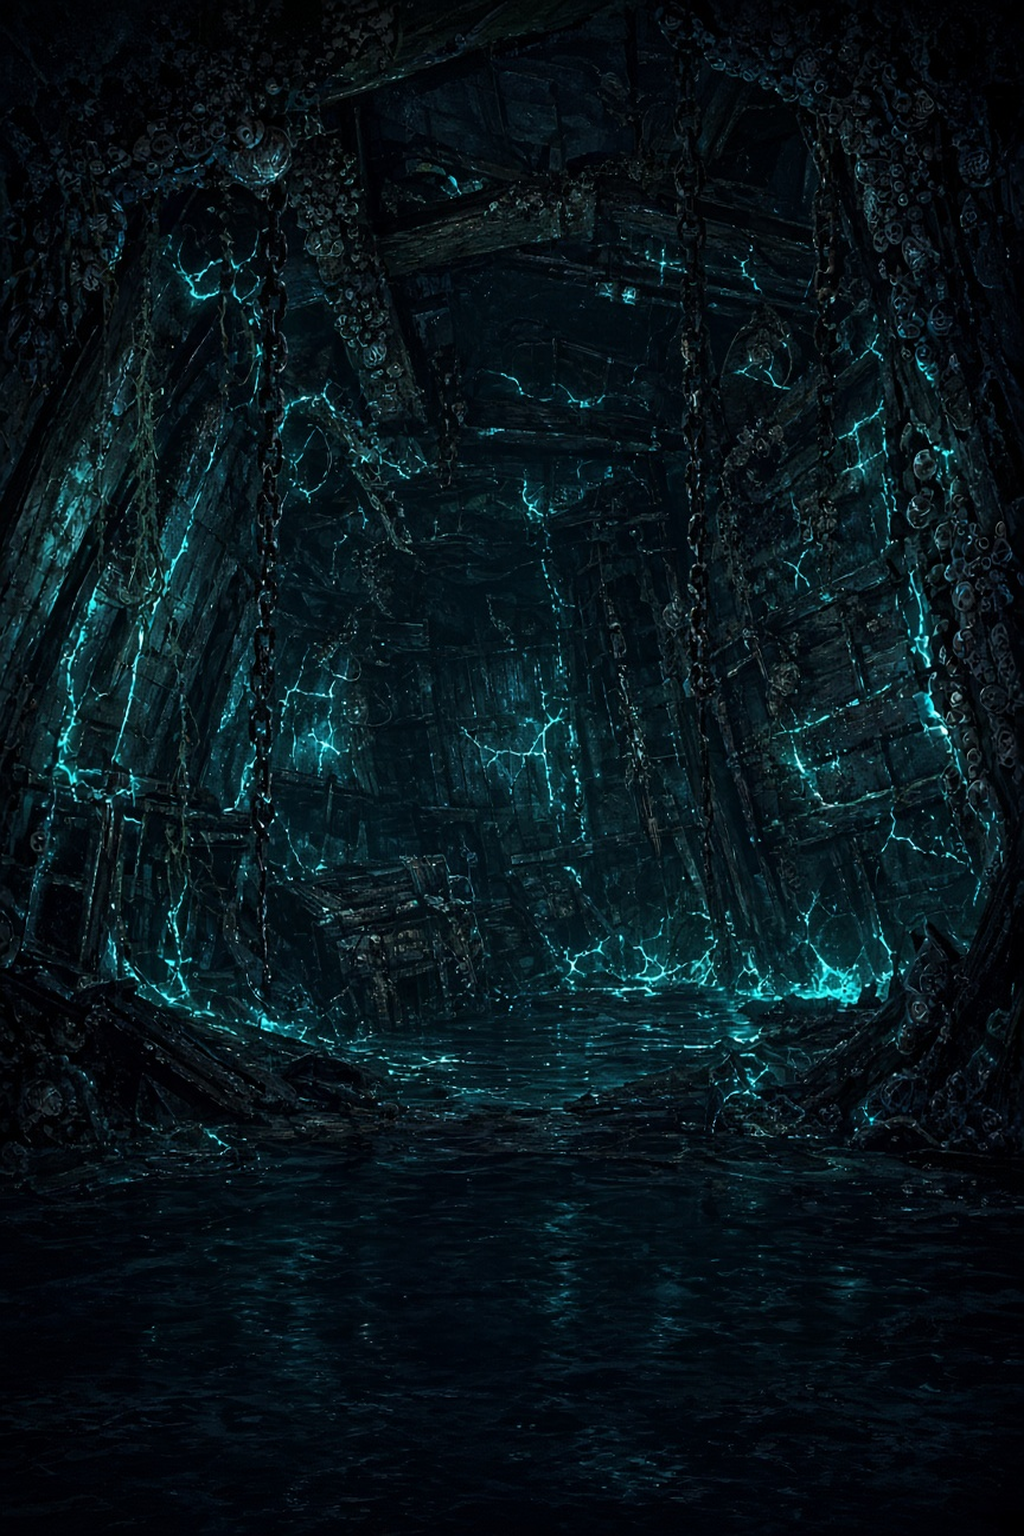
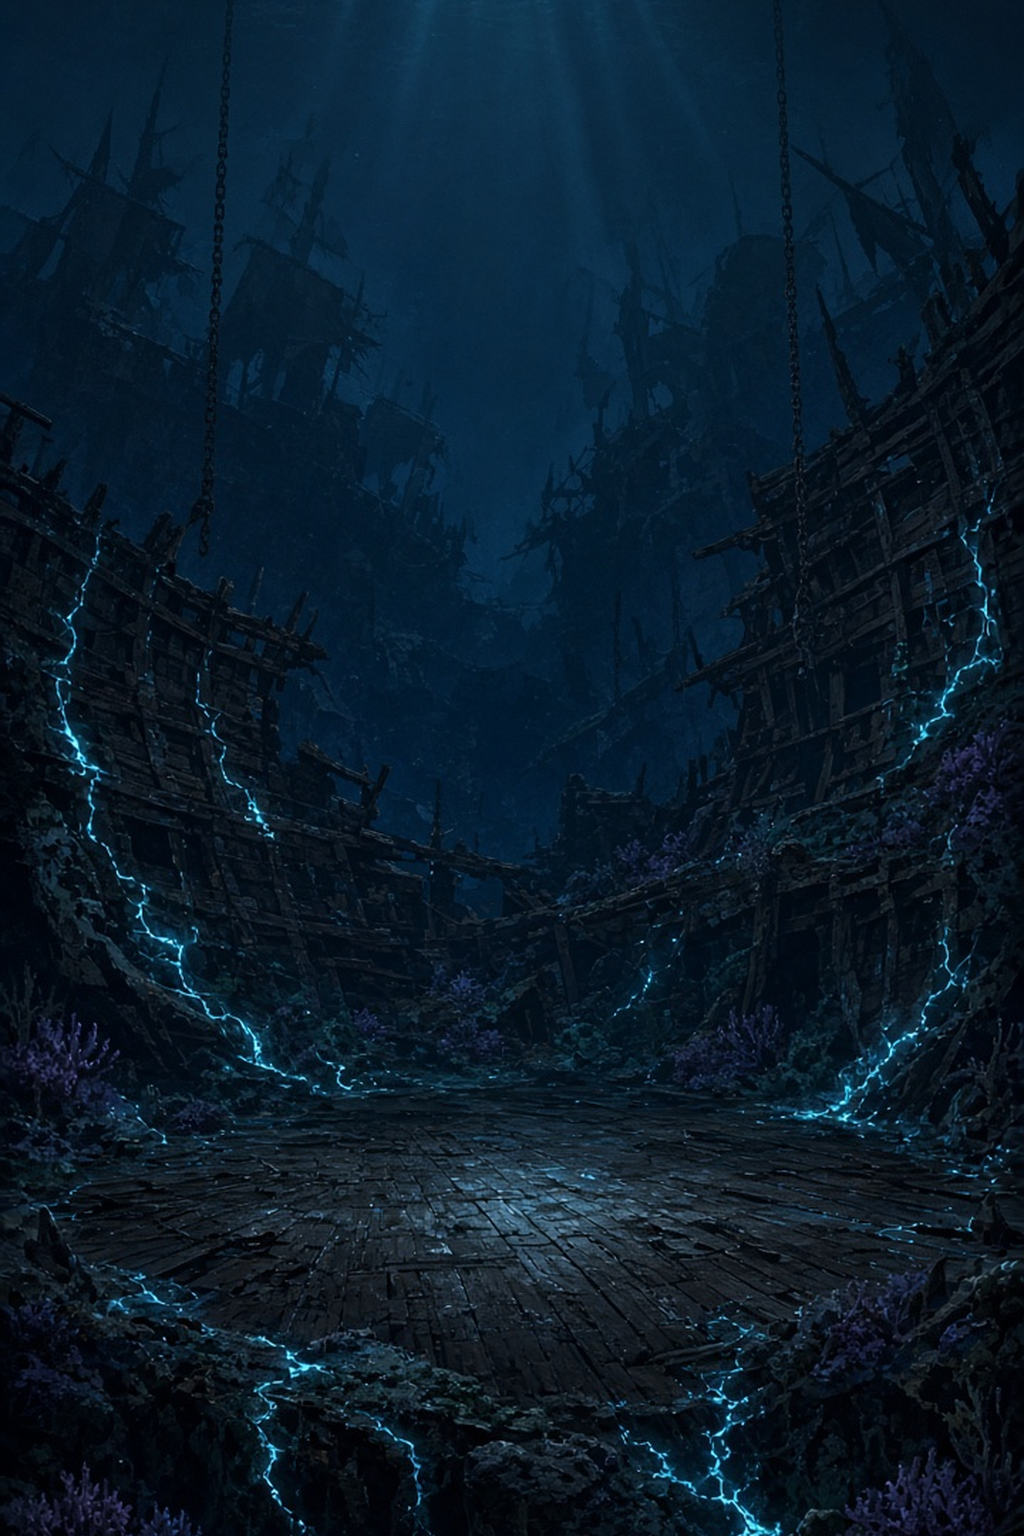
art(nereion): 中盤戦闘BGを引き構図へ差し替え
寄り船倉の Late を旗艦内部の奥行きある構図に変更（1024×1536）。

diff --git a/docs/project/CurrentState.md b/docs/project/CurrentState.md
@@ -3,6 +3,7 @@
 ---
 
 ## Last Update
+2026-09-13（**潮脈王 Late戦闘BGを引き構図へ**: 寄り船倉を差し替え。1024×1536。要 debug 再エクスポートで中盤確認）
 2026-09-13（**潮脈の契ICO透過／装備タブ一覧／デバッグ潮脈王**: ICO灰マット除去。仮想所持グリッドの force 再構築。デバッグで潮脈王一覧＋進入メニュー。要 debug 再インストール）
 2026-09-13（**潮脈王ボス戦闘ドット接続**: DownloadsのPixelLab zip→128×36シート（Idle/Attack/Hurt/Death×9）＋Hard/NM再色。図鑑ART・ターンICOは据置。要実機でボス戦確認。配信フラグは第3弾までOFF）
 2026-09-12（**潮脈王図鑑キーアート採用**: `ART_BOSS_NereionDepths` 本描き＋ターンICO差し替え。Wiki同期。要実機で図鑑確認）
